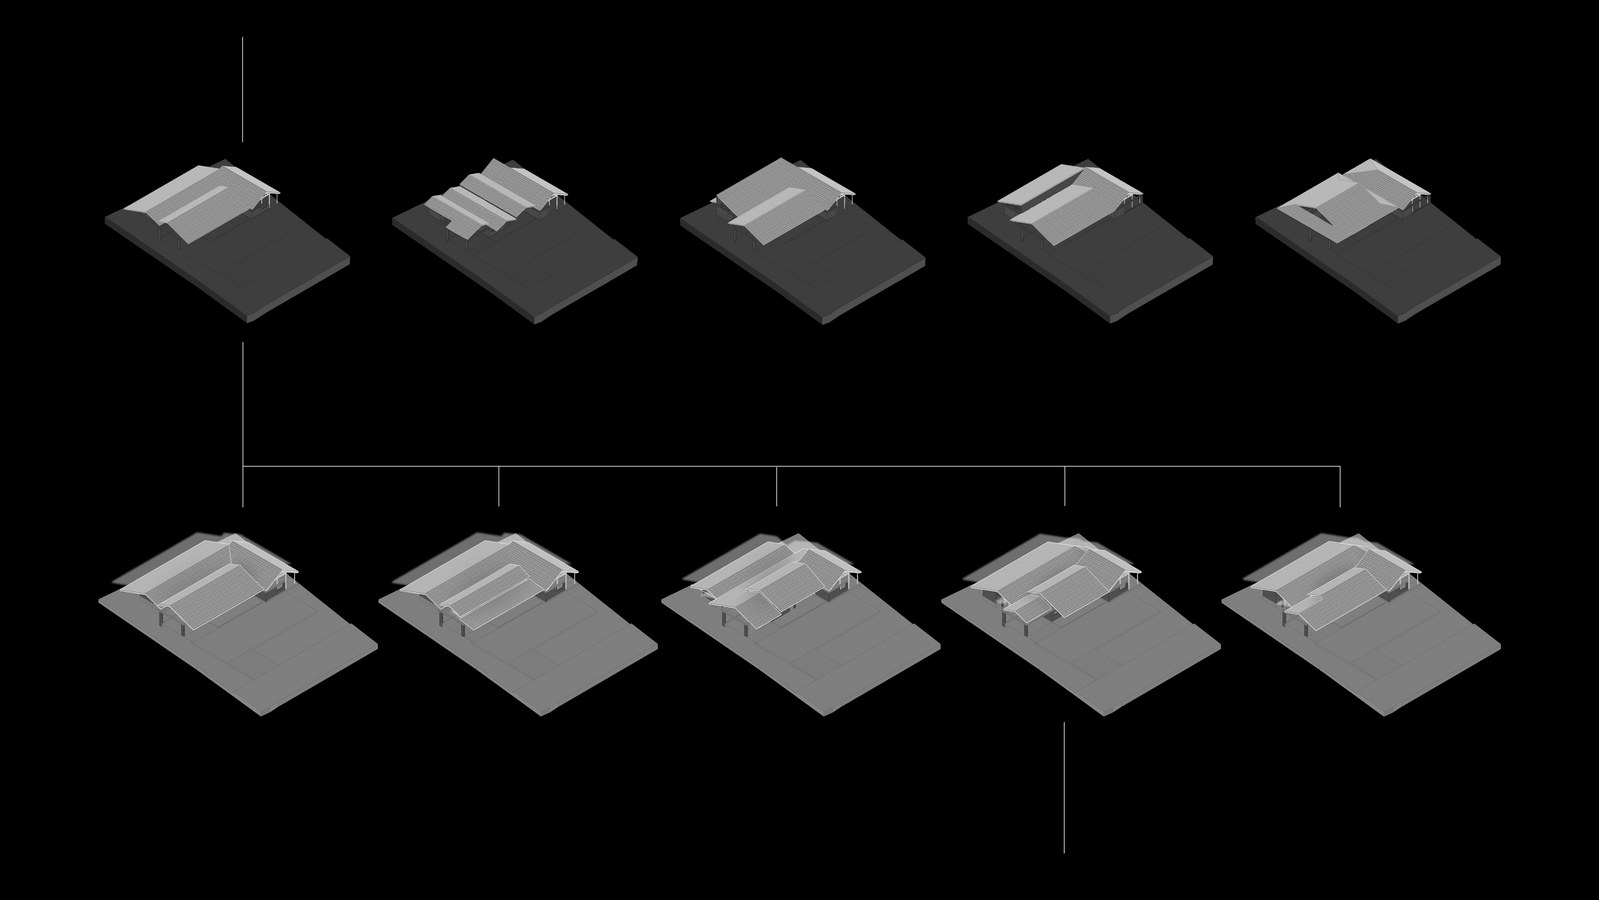
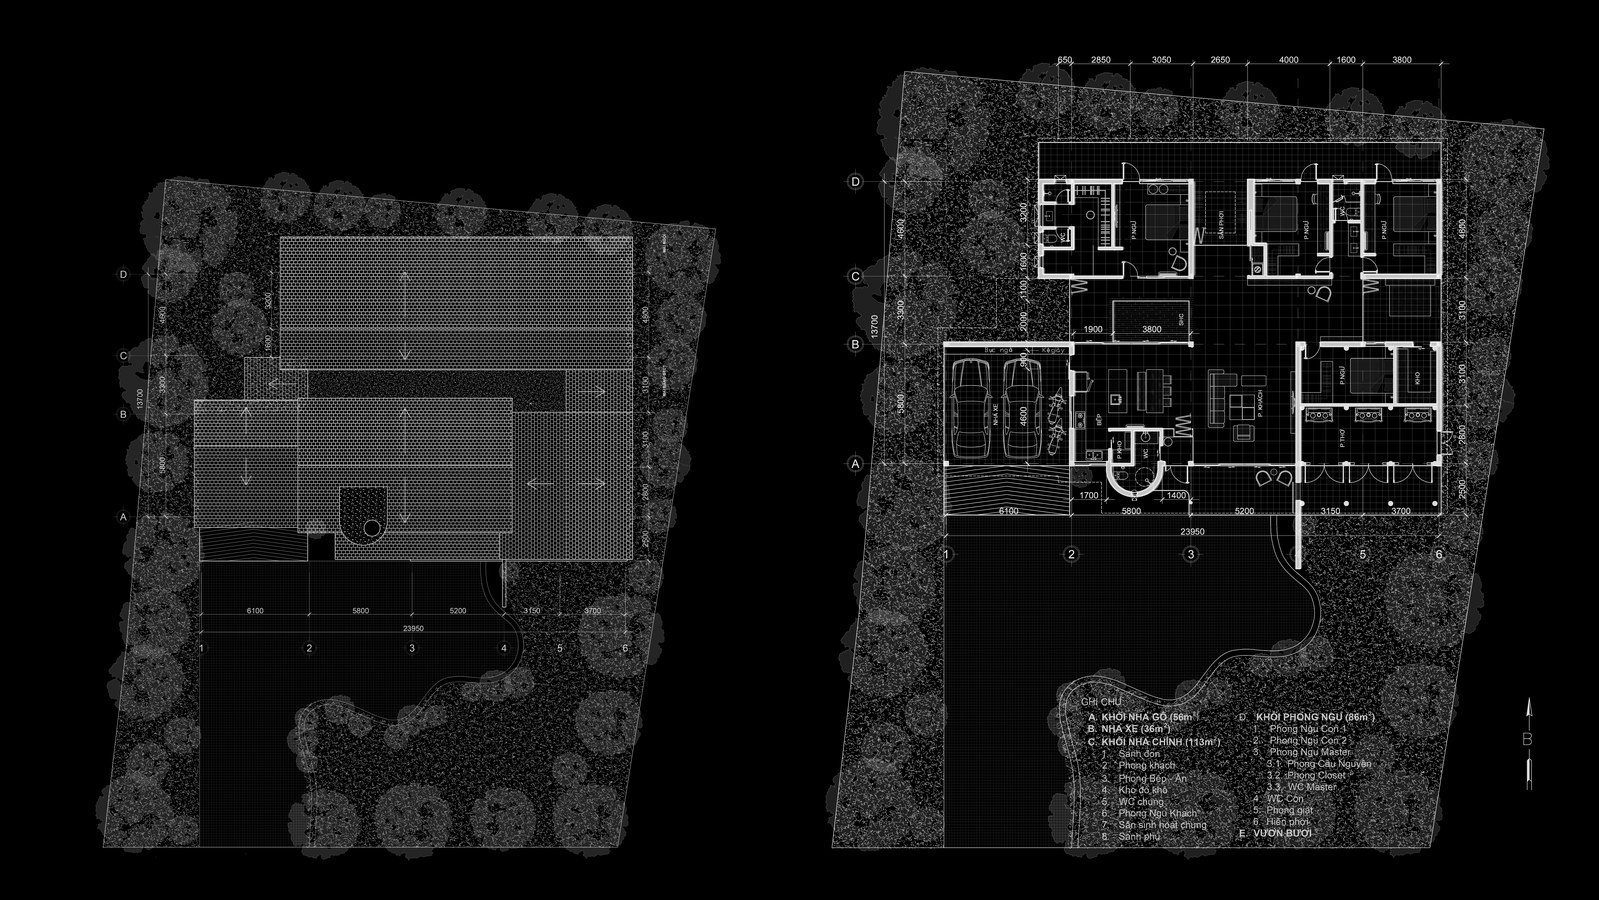
Sync galleries to disk: drop 0-byte refs (thi-thi 03, phu-tho 01, thi-thi g3) and clean up g1/g2 swap

diff --git a/index.html b/index.html
@@ -671,7 +671,7 @@
 
 /* ---- PIXEL BLUR FIELD (around cursor over hero text) -- REMOVED -- */
 
-const GALLERIES = {"00-bat-trang": ["projects/00-bat-trang/gallery/01.jpg","projects/00-bat-trang/gallery/02.jpg","projects/00-bat-trang/gallery/03.jpg","projects/00-bat-trang/gallery/04.jpg","projects/00-bat-trang/gallery/05.jpg","projects/00-bat-trang/gallery/06.jpg","projects/00-bat-trang/gallery/07.jpg","projects/00-bat-trang/gallery/08.jpg","projects/00-bat-trang/gallery/09.jpg","projects/00-bat-trang/gallery/10.jpg"], "01-thi-thi": ["projects/01-thi-thi/gallery/g1.jpg","projects/01-thi-thi/gallery/g2.jpg","projects/01-thi-thi/gallery/g3.jpg","projects/01-thi-thi/gallery/02.jpg","projects/01-thi-thi/gallery/03.jpg","projects/01-thi-thi/gallery/04.jpg","projects/01-thi-thi/gallery/05.jpg","projects/01-thi-thi/gallery/06.jpg","projects/01-thi-thi/gallery/07.jpg","projects/01-thi-thi/gallery/g10_1.jpg","projects/01-thi-thi/gallery/g10_2.jpg","projects/01-thi-thi/gallery/g10_3.jpg","projects/01-thi-thi/gallery/09.jpg","projects/01-thi-thi/gallery/10.jpg","projects/01-thi-thi/gallery/11.jpg","projects/01-thi-thi/gallery/12.jpg"], "02-quoc-anh": ["projects/02-quoc-anh/gallery/gallery 0.jpg","projects/02-quoc-anh/gallery/01.jpg","projects/02-quoc-anh/gallery/02.jpg","projects/02-quoc-anh/gallery/03.jpg","projects/02-quoc-anh/gallery/04.jpg","projects/02-quoc-anh/gallery/05.jpg"], "03-phu-tho": ["projects/03-phu-tho/gallery/04.jpg","projects/03-phu-tho/gallery/01.jpg","projects/03-phu-tho/gallery/02.jpg","projects/03-phu-tho/gallery/03.jpg","projects/03-phu-tho/gallery/05.jpg"], "04-hado": ["projects/04-hado/gallery/01.jpg","projects/04-hado/gallery/02.jpg","projects/04-hado/gallery/g3.jpg","projects/04-hado/gallery/g4.jpg","projects/04-hado/gallery/g5.jpg","projects/04-hado/gallery/g6.jpg","projects/04-hado/gallery/g7.jpg","projects/04-hado/gallery/g8.jpg"], "05-mimosa": ["projects/05-mimosa/gallery/01.jpg","projects/05-mimosa/gallery/02.jpg","projects/05-mimosa/gallery/03.jpg","projects/05-mimosa/gallery/04.jpg","projects/05-mimosa/gallery/05.jpg","projects/05-mimosa/gallery/06.jpg","projects/05-mimosa/gallery/07.jpg"], "06-caokim": ["projects/06-caokim/gallery/gallery 1.jpg","projects/06-caokim/gallery/gallery 2.jpg","projects/06-caokim/gallery/gallery 3.jpg","projects/06-caokim/gallery/gallery 4.jpg","projects/06-caokim/gallery/gallery 5.jpg"], "07-delasoil": ["projects/07-delasoil/gallery/g1.jpg","projects/07-delasoil/gallery/g2.jpg","projects/07-delasoil/gallery/g3.jpg","projects/07-delasoil/gallery/g4.jpg","projects/07-delasoil/gallery/g5.jpg","projects/07-delasoil/gallery/g6.jpg","projects/07-delasoil/gallery/g7.jpg"]};
+const GALLERIES = {"00-bat-trang": ["projects/00-bat-trang/gallery/01.jpg","projects/00-bat-trang/gallery/02.jpg","projects/00-bat-trang/gallery/03.jpg","projects/00-bat-trang/gallery/04.jpg","projects/00-bat-trang/gallery/05.jpg","projects/00-bat-trang/gallery/06.jpg","projects/00-bat-trang/gallery/07.jpg","projects/00-bat-trang/gallery/08.jpg","projects/00-bat-trang/gallery/09.jpg","projects/00-bat-trang/gallery/10.jpg"], "01-thi-thi": ["projects/01-thi-thi/gallery/g1.jpg","projects/01-thi-thi/gallery/g2.jpg","projects/01-thi-thi/gallery/g3.jpg","projects/01-thi-thi/gallery/02.jpg","projects/01-thi-thi/gallery/04.jpg","projects/01-thi-thi/gallery/05.jpg","projects/01-thi-thi/gallery/06.jpg","projects/01-thi-thi/gallery/07.jpg","projects/01-thi-thi/gallery/g10_1.jpg","projects/01-thi-thi/gallery/g10_2.jpg","projects/01-thi-thi/gallery/g10_3.jpg","projects/01-thi-thi/gallery/09.jpg","projects/01-thi-thi/gallery/10.jpg","projects/01-thi-thi/gallery/11.jpg","projects/01-thi-thi/gallery/12.jpg"], "02-quoc-anh": ["projects/02-quoc-anh/gallery/gallery 0.jpg","projects/02-quoc-anh/gallery/01.jpg","projects/02-quoc-anh/gallery/02.jpg","projects/02-quoc-anh/gallery/03.jpg","projects/02-quoc-anh/gallery/04.jpg","projects/02-quoc-anh/gallery/05.jpg"], "03-phu-tho": ["projects/03-phu-tho/gallery/01.jpg","projects/03-phu-tho/gallery/03.jpg","projects/03-phu-tho/gallery/04.jpg","projects/03-phu-tho/gallery/05.jpg"], "04-hado": ["projects/04-hado/gallery/01.jpg","projects/04-hado/gallery/02.jpg","projects/04-hado/gallery/g3.jpg","projects/04-hado/gallery/g4.jpg","projects/04-hado/gallery/g5.jpg","projects/04-hado/gallery/g6.jpg","projects/04-hado/gallery/g7.jpg","projects/04-hado/gallery/g8.jpg"], "05-mimosa": ["projects/05-mimosa/gallery/01.jpg","projects/05-mimosa/gallery/02.jpg","projects/05-mimosa/gallery/03.jpg","projects/05-mimosa/gallery/04.jpg","projects/05-mimosa/gallery/05.jpg","projects/05-mimosa/gallery/06.jpg","projects/05-mimosa/gallery/07.jpg"], "06-caokim": ["projects/06-caokim/gallery/gallery 1.jpg","projects/06-caokim/gallery/gallery 2.jpg","projects/06-caokim/gallery/gallery 3.jpg","projects/06-caokim/gallery/gallery 4.jpg","projects/06-caokim/gallery/gallery 5.jpg"], "07-delasoil": ["projects/07-delasoil/gallery/g1.jpg","projects/07-delasoil/gallery/g2.jpg","projects/07-delasoil/gallery/g3.jpg","projects/07-delasoil/gallery/g4.jpg","projects/07-delasoil/gallery/g5.jpg","projects/07-delasoil/gallery/g6.jpg","projects/07-delasoil/gallery/g7.jpg"]};
 const lb = document.getElementById('lightbox');
 const stage = document.getElementById('lbStage');
 const xBtn = document.getElementById('lbClose');
